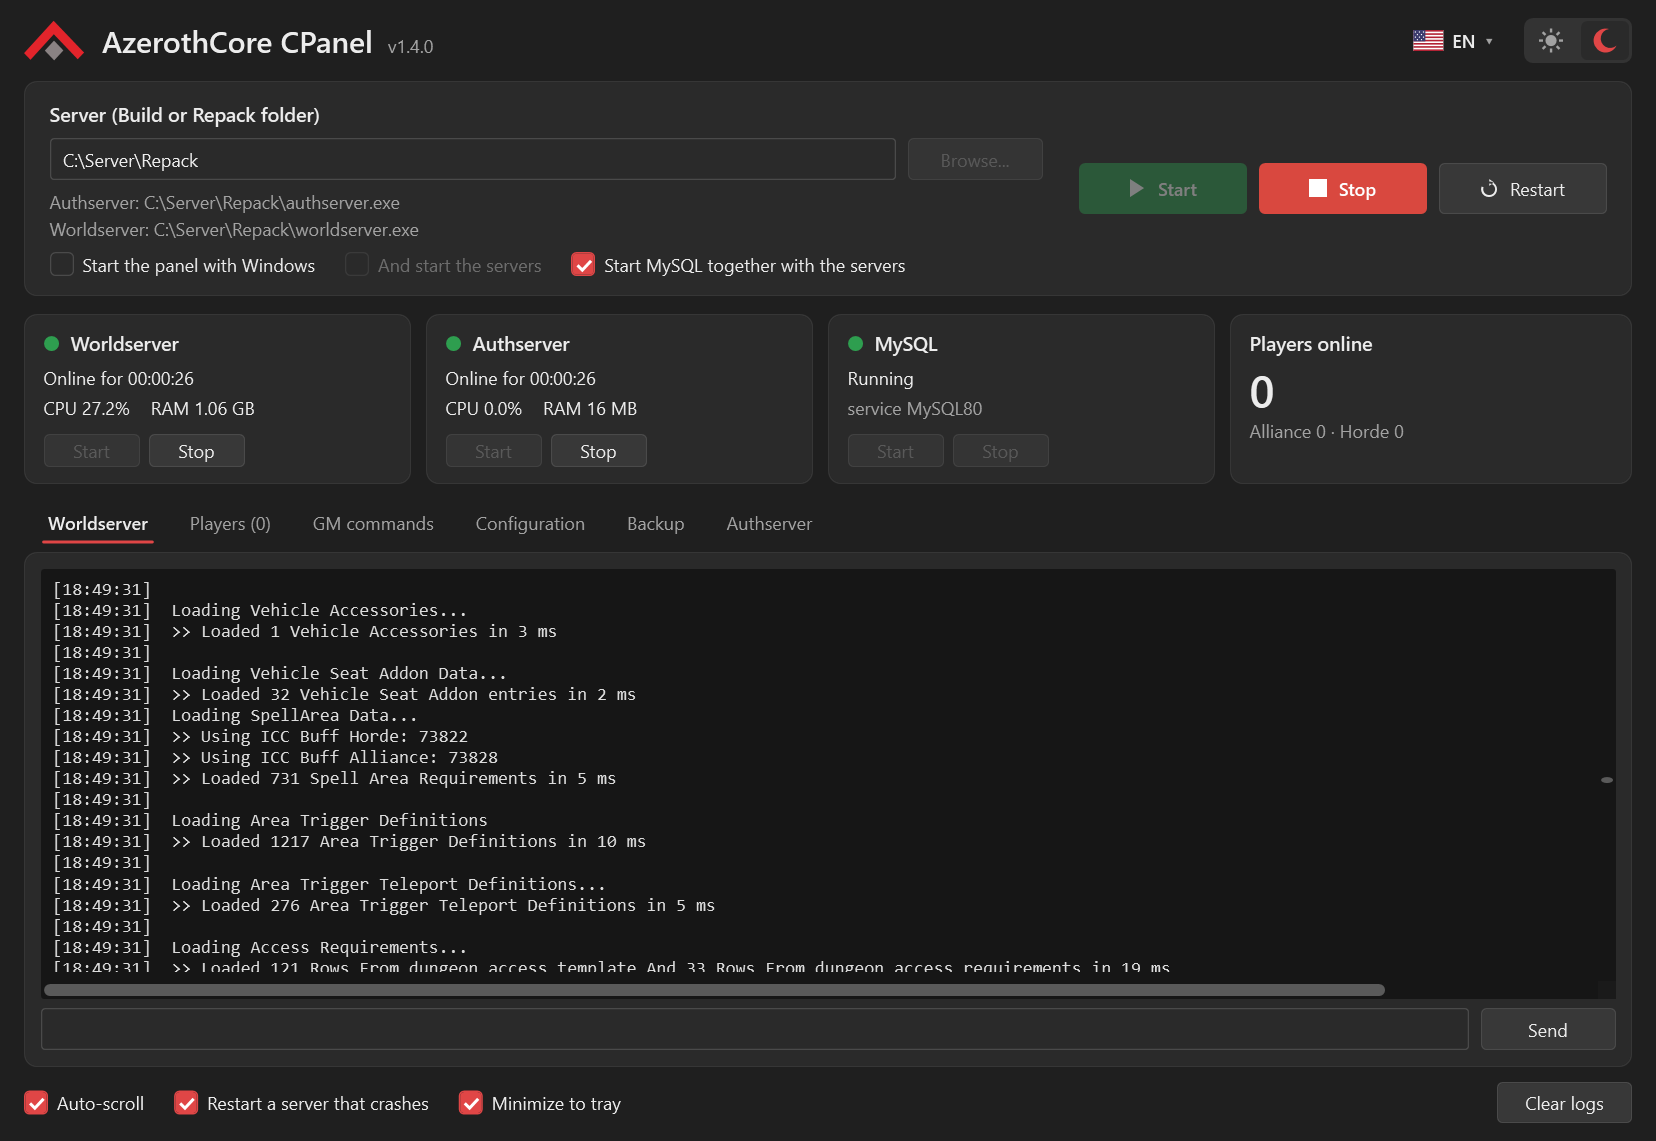
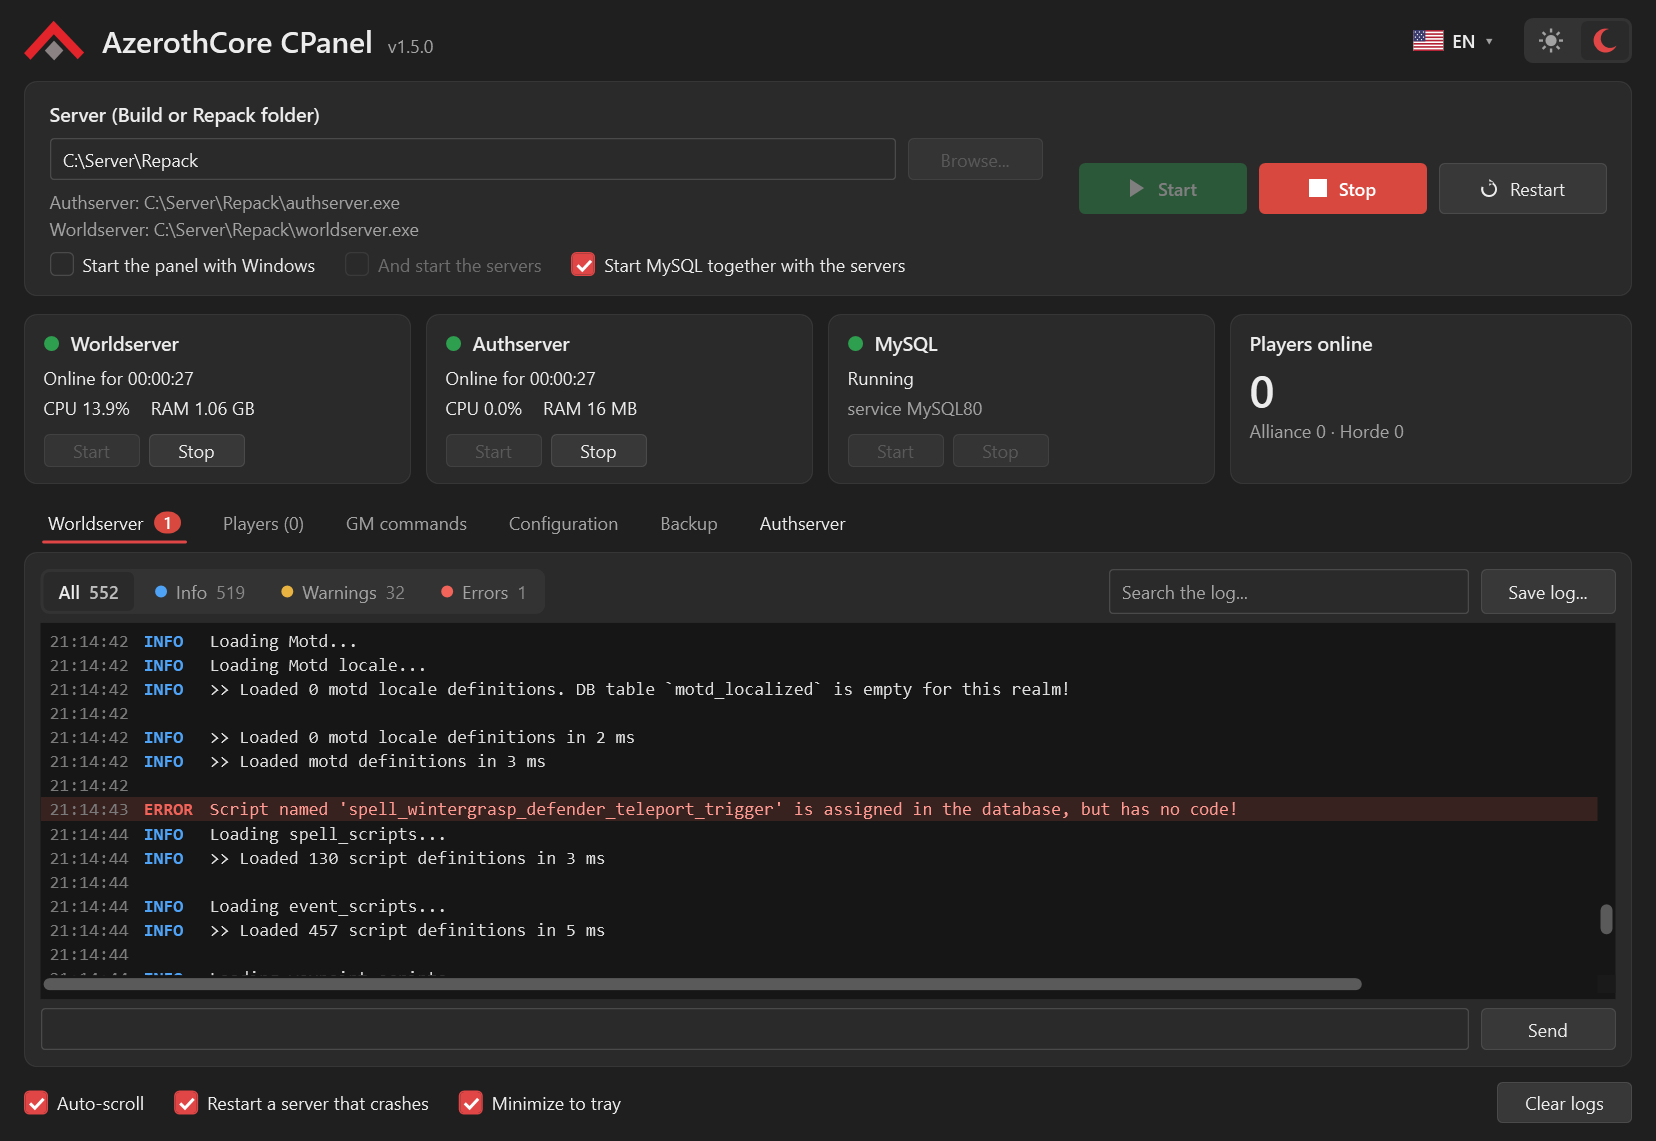
docs: add colored log screenshots to the READMEs

diff --git a/README.md b/README.md
@@ -15,6 +15,10 @@ Instead of opening `authserver.exe` and `worldserver.exe` by hand, the panel tak
 | --- | --- |
 | ![Main window, dark theme](assets/screenshots/panel-dark.png) | ![Configuration editor](assets/screenshots/config-editor.png) |
 
+| Logs colored by level | Warnings filter |
+| --- | --- |
+| ![Worldserver log with INFO, WARN and ERROR lines](assets/screenshots/logs-all.png) | ![Worldserver log showing only the warnings](assets/screenshots/logs-warnings.png) |
+
 ## Download
 
 Download `AzerothCorePanel.exe` from the [releases page](https://github.com/EricksOliveira/AzerothCore-CPanel/releases/latest).

diff --git a/README.es.md b/README.es.md
@@ -16,6 +16,10 @@ encarga de todo con un clic.
 | --- | --- |
 | ![Ventana principal, tema oscuro](assets/screenshots/panel-dark.png) | ![Editor de configuración](assets/screenshots/config-editor.png) |
 
+| Logs con colores por nivel | Filtro de advertencias |
+| --- | --- |
+| ![Log del worldserver con líneas INFO, WARN y ERROR](assets/screenshots/logs-all.png) | ![Log del worldserver mostrando solo las advertencias](assets/screenshots/logs-warnings.png) |
+
 > Las capturas muestran el panel en inglés, el idioma por defecto. Para usarlo en español, haz clic en la bandera de la
 > esquina superior derecha.
 

diff --git a/README.pt-BR.md b/README.pt-BR.md
@@ -16,6 +16,10 @@ o painel cuida disso com um clique.
 | --- | --- |
 | ![Janela principal, tema escuro](assets/screenshots/panel-dark.png) | ![Editor de configuração](assets/screenshots/config-editor.png) |
 
+| Logs coloridos por nível | Filtro de avisos |
+| --- | --- |
+| ![Log do worldserver com linhas INFO, WARN e ERROR](assets/screenshots/logs-all.png) | ![Log do worldserver mostrando só os avisos](assets/screenshots/logs-warnings.png) |
+
 > Os prints mostram o painel em inglês, o idioma padrão. Para usar em português, clique na bandeira no canto superior
 > direito.
 
